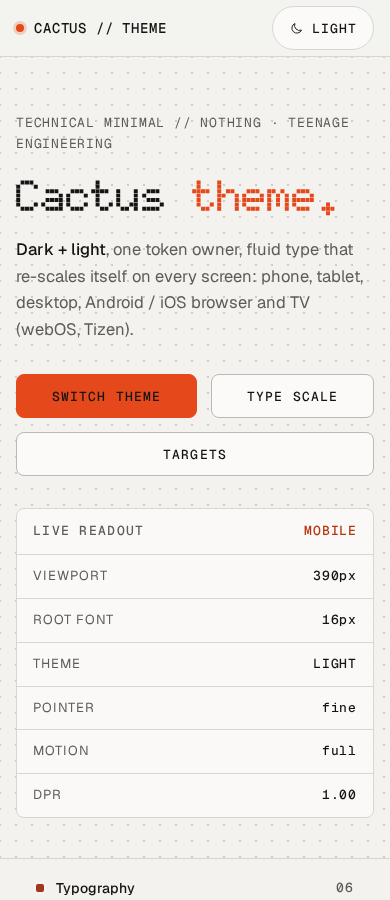
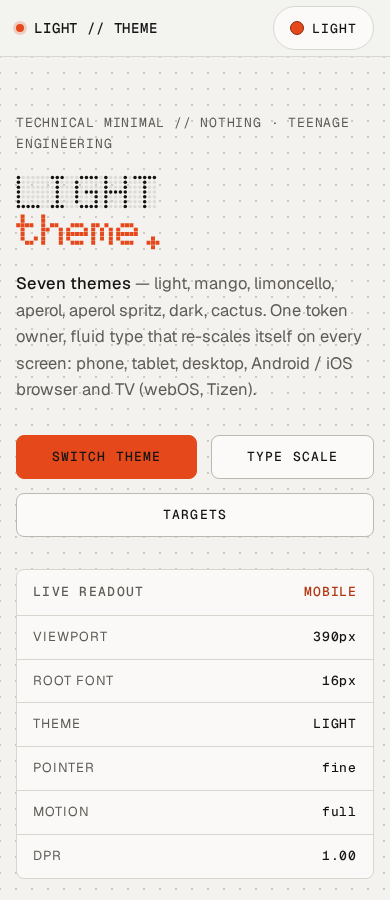
feat: dot-matrix hero title with ignition + dim wave; README v2.0
- theme name renders as 5x7 dot readout, dots ignite first->last then run a
  slow dim/relight wave, re-spells on every theme switch, sr-only text kept
- README retitled 'Technical Minimal theme pack v2.0', hero effect documented
- gallery screenshots regenerated (all themes, current title)

diff --git a/index.html b/index.html
@@ -182,6 +182,19 @@
   }
   h1 .hot{color:var(--accent)}
   @keyframes wipe{from{clip-path:inset(0 100% 0 0);filter:blur(6px)}to{clip-path:inset(0 0 0 0);filter:blur(0)}}
+  .sr-only{position:absolute;width:1px;height:1px;padding:0;margin:-1px;overflow:hidden;clip:rect(0 0 0 0);white-space:nowrap;border:0}
+  /* hero title as a dot-matrix readout: ignition wave L→R, then a slow dim wave */
+  .hero-mx{display:block}
+  .hero-mx svg{height:clamp(34px,6.6vw,92px);width:auto;max-width:100%;overflow:visible}
+  .hero-mx .on{
+    fill:var(--text);transform-box:fill-box;transform-origin:center;
+    animation:mx-ignite .45s var(--d) var(--ease) both, mx-wave 6s calc(var(--d) + 900ms) infinite;
+  }
+  .hero-mx .hot{fill:var(--accent)}
+  [data-theme="dark"] .hero-mx .hot,[data-theme="cactus"] .hero-mx .hot{filter:drop-shadow(0 0 4px var(--accent))}
+  @keyframes mx-ignite{from{opacity:0;transform:scale(.2)}to{opacity:1;transform:scale(1)}}
+  @keyframes mx-wave{0%,50%{opacity:1}60%{opacity:.18}74%{opacity:1}100%{opacity:1}}
+  @media (prefers-reduced-motion:reduce){.hero-mx .on{animation:none;opacity:1}}
   .lead{font-size:var(--fs-lead);color:var(--muted);max-width:46ch;margin-top:20px}
   .lead strong{color:var(--text);font-weight:500}
   .cta{display:flex;flex-wrap:wrap;gap:14px;margin-top:32px}
@@ -450,7 +463,7 @@
   <div class="wrap">
     <div>
       <p class="kicker mono">Technical Minimal // Nothing · Teenage Engineering</p>
-      <h1><span id="hero-name">Cactus</span> <span class="hot">theme.</span></h1>
+      <h1><span class="sr-only" id="hero-name">Cactus</span><span class="hero-mx" id="hero-mx" aria-hidden="true"></span><span class="hot">theme.</span></h1>
       <p class="lead"><strong>Seven themes</strong> — light, mango, limoncello, aperol, aperol spritz, dark, cactus. One token owner, fluid type that re-scales itself on every screen: phone, tablet, desktop, Android / iOS browser and TV (webOS, Tizen).</p>
       <div class="cta">
         <button class="btn hot" id="cta-theme" type="button">Switch theme</button>
@@ -722,6 +735,11 @@
       var r = document.getElementById('r-theme'); if (r) r.textContent = (t || 'light').toUpperCase();
       /* every visible mention of the theme follows the switch */
       var hero = document.getElementById('hero-name');   if (hero) hero.textContent = name;
+      var hmx  = document.getElementById('hero-mx');     /* title re-spells in dot-matrix, ignition wave restarts */
+      if (hmx && window.dotMatrix) {
+        hmx.innerHTML = window.dotMatrix(name.toUpperCase())
+          .replace('focusable="false"', 'preserveAspectRatio="xMinYMid meet" focusable="false"');
+      }
       var br   = document.getElementById('brand');       if (br) br.textContent = name.toUpperCase() + ' // THEME';
       var spbr = document.getElementById('brand-splash');if (spbr) spbr.textContent = name.toUpperCase() + '.SYS';
       var ft   = document.getElementById('foot-brand');  if (ft) ft.textContent = name + ' theme · Technical Minimal · 7 themes';

diff --git a/README.md b/README.md
@@ -1,4 +1,4 @@
-# Cactus — Technical Minimal theme pack
+# Technical Minimal theme pack v2.0
 
 A single-file, framework-free implementation of the **Technical Minimal** design language
 (Nothing / Teenage Engineering aesthetic, after [mich-de.github.io](https://mich-de.github.io)):
@@ -71,6 +71,9 @@ by the same breakpoint names the CSS uses.
 - **Dot-matrix boot splash** on every page load — 5×7 glyphs rendered at runtime from the
   active theme name ("CACTUS.", "APEROL SPRITZ."), segmented hue progress bar, blinking LED,
   skip on any key / tap / scroll, 6s hard fallback, bypassed for `prefers-reduced-motion`.
+- **Dot-matrix hero title** — the theme name renders as a 5×7 dot readout that ignites
+  letter by letter (first → last), then runs a slow dim/relight wave across the dots;
+  re-spells and replays on every theme switch. The text stays in the DOM for screen readers.
 - **Index quick-nav** with per-section hue swatches and tabular counts.
 - **Two-column sections**: sticky technical head (`01 // TYPOGRAPHY`) + kinetic rows whose
   background wipes in from the left with `cubic-bezier(.16, 1, .3, 1)`.
